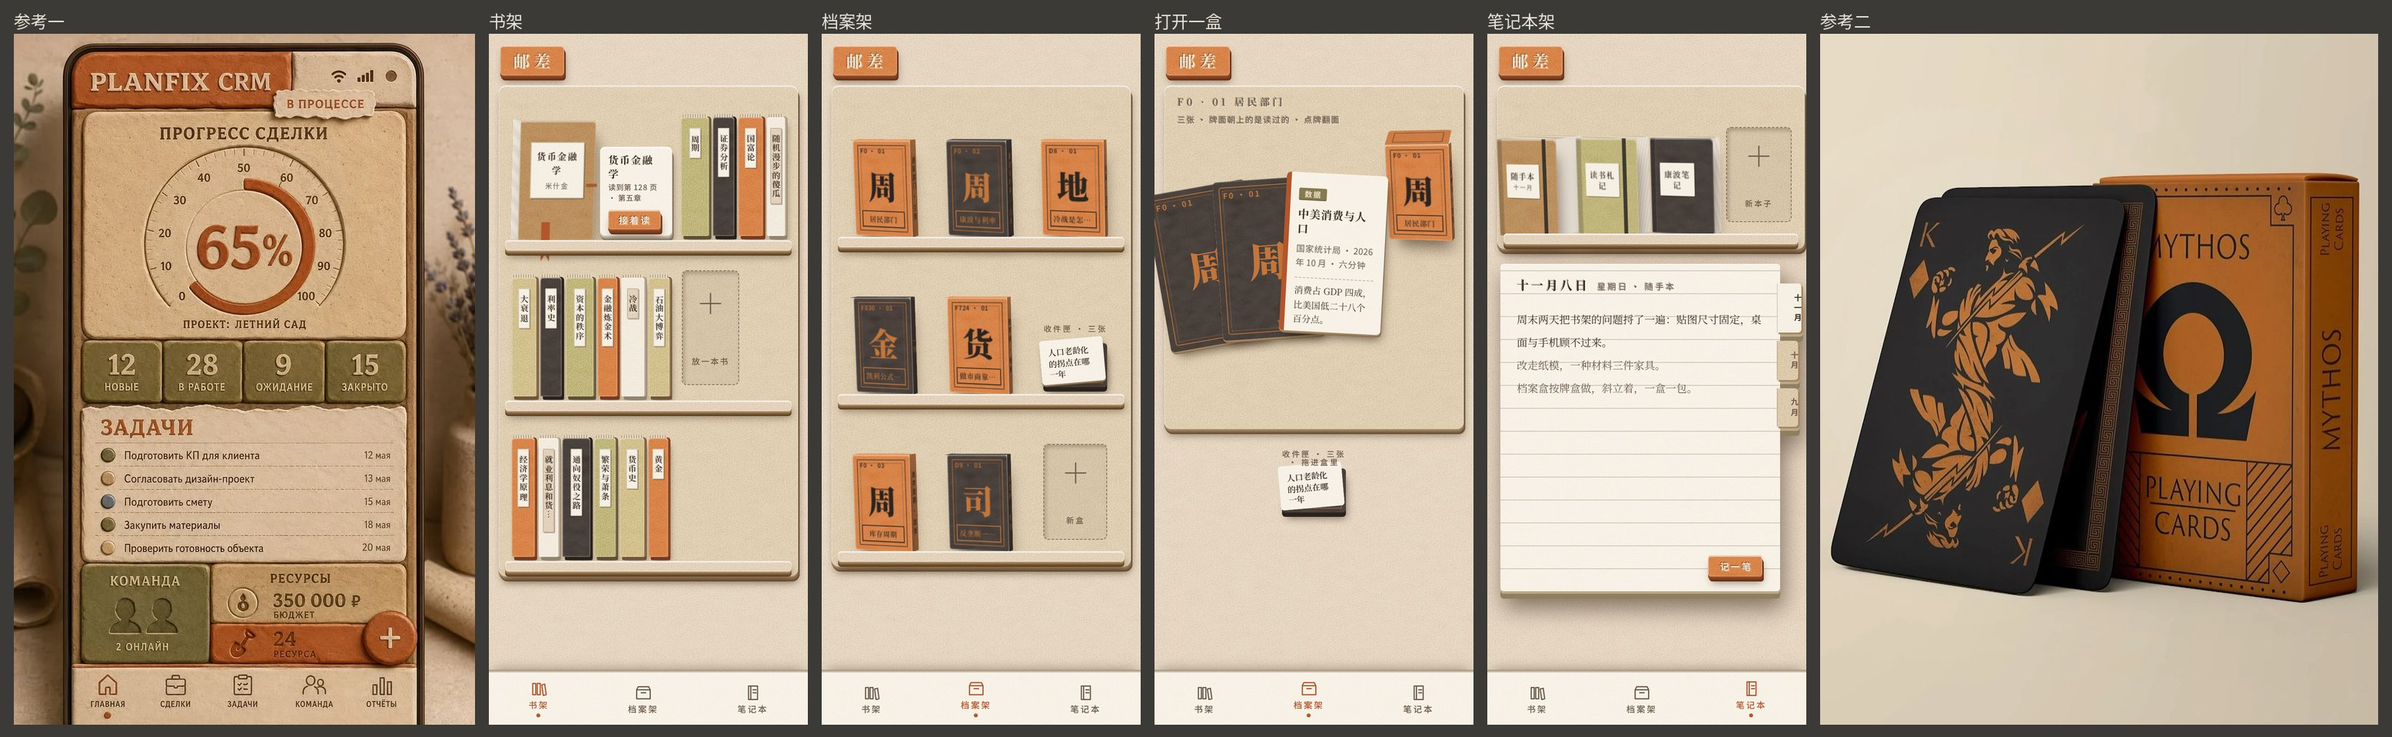
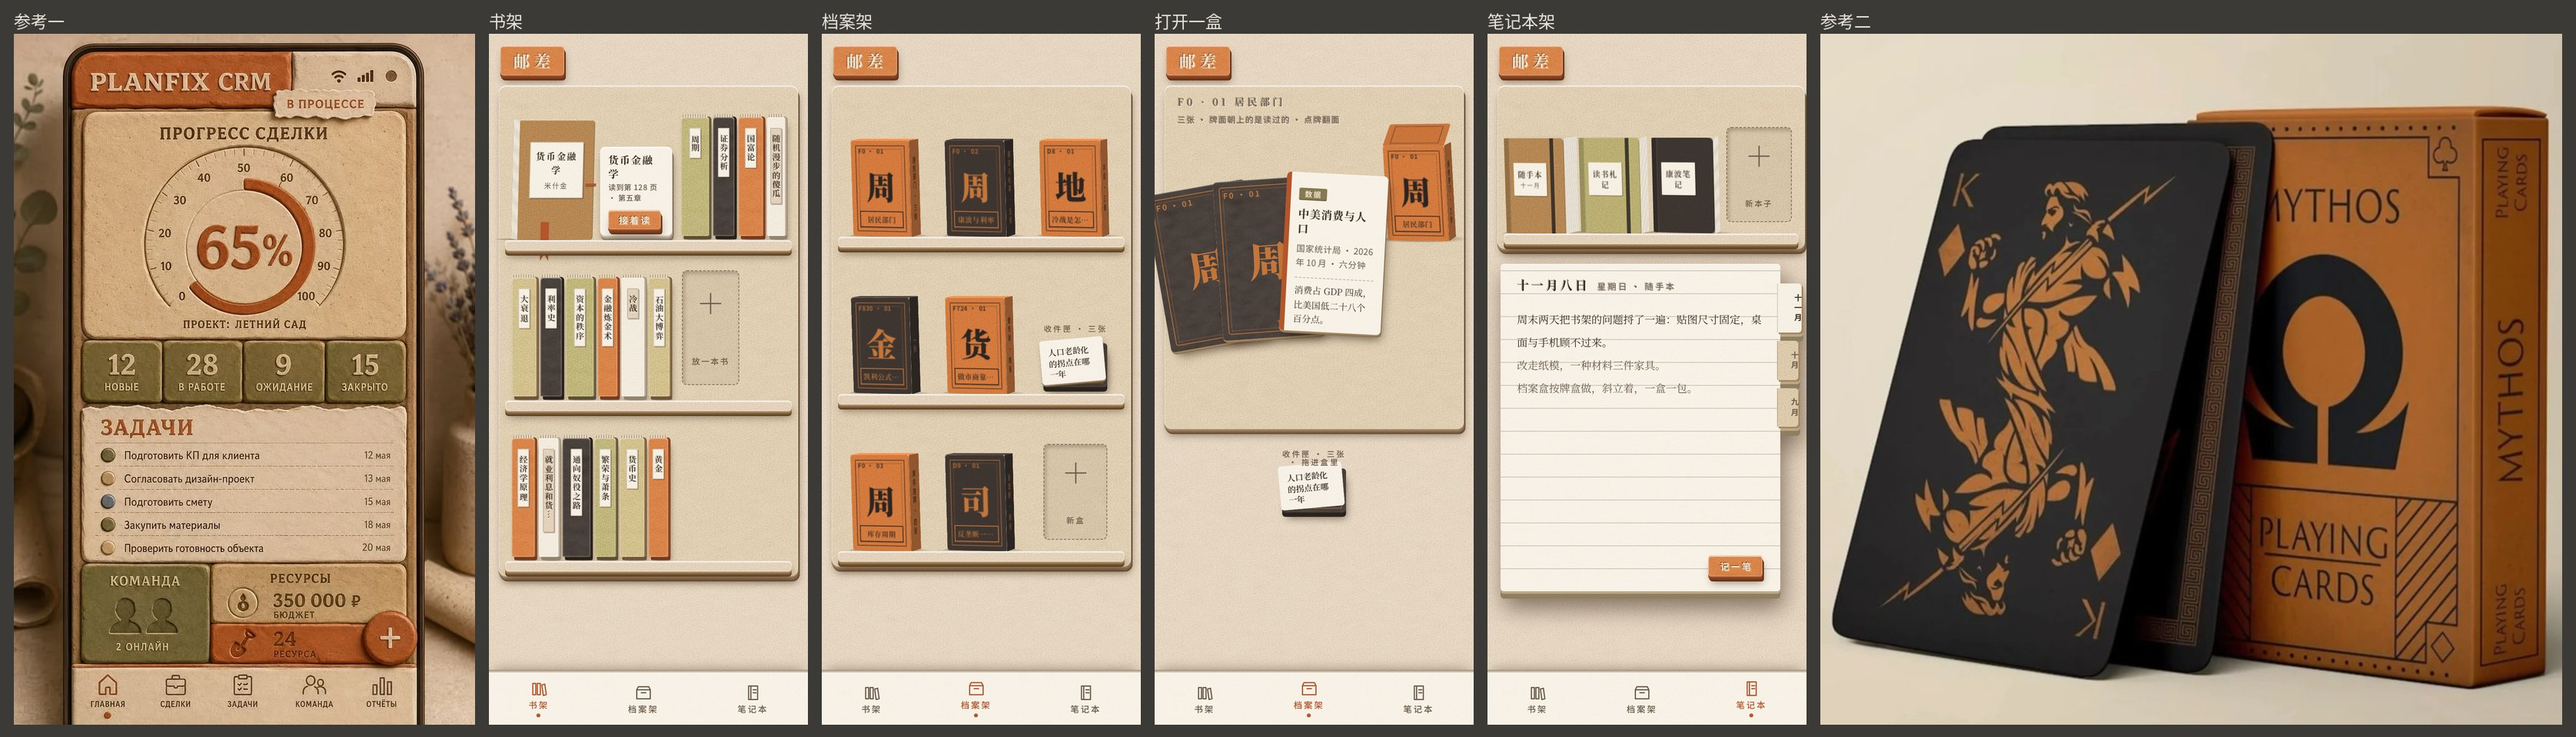
牌盒对照 MYTHOS 量一遍（厚度比、转角、透视、三面明暗、折痕、影子、牌）写进审视稿六之五；盒子参数试改：厚盒、近正交、哑光盒面、地面接触影
- 改前侧/正 0.08、无接触影、盒面用了纸片亮线；改后盒厚 = 正面宽 × .32 + 每张牌 1px（约 0.30）、perspective 2200、去亮线、盒底平躺暗椭圆、侧 .70 顶 1.18、盒面颗粒减半
- 本子与在读的书厚度另算并加接触影；两张拼图更新；STATUS 更新

diff --git a/docs/paper-trial.html b/docs/paper-trial.html
@@ -42,15 +42,16 @@ body{margin:0;background:#86827a;font-family:var(--f-sans);color:var(--ink);font
 .cut b{font:300 34px/1 var(--f-serif)}
 
 /* ---------- 三维盒：牌盒与本子 ---------- */
-.stage{perspective:1000px;perspective-origin:50% 25%}
-.pack{--w:84px;--h:126px;--n:3;--d:calc(9px + var(--n) * 2px);--ry:-22deg;--rz:0deg;--rx:-4deg;--face:var(--terra);--inkc:var(--black);
+.stage{perspective:2200px;perspective-origin:50% 25%}
+.pack{--w:84px;--h:126px;--n:3;--d:calc(var(--w) * .32 + var(--n) * 1px);--ry:-22deg;--rz:0deg;--rx:-4deg;--face:var(--terra);--inkc:var(--black);
   position:relative;width:var(--w);height:var(--h);transform-style:preserve-3d;transform-origin:50% 100%;transform:rotateY(var(--ry)) rotateX(var(--rx)) rotateZ(var(--rz));flex:none}
-.pack .f{position:absolute;left:0;top:0;background-color:var(--face);background-image:var(--fibre),var(--tooth);background-blend-mode:soft-light,overlay;color:var(--inkc);backface-visibility:hidden}
-.pack .front{width:var(--w);height:var(--h);transform:translateZ(calc(var(--d) / 2));border-radius:3px;
-  box-shadow:inset 0 2px 0 rgba(255,255,255,.3),inset 0 0 0 1px rgba(255,255,255,.2),6px 14px 18px -6px rgba(50,30,15,.6)}
-.pack .side{width:var(--d);height:var(--h);left:100%;transform-origin:left center;transform:translateZ(calc(var(--d) / 2)) rotateY(90deg);filter:brightness(.72) saturate(.9);display:flex;align-items:center;justify-content:center;overflow:hidden}
-.pack .side span{writing-mode:vertical-rl;font:500 8.5px/1 var(--f-sans);letter-spacing:.14em;opacity:.9;white-space:nowrap}
-.pack .top{width:var(--w);height:var(--d);transform-origin:center top;transform:translateZ(calc(-1 * var(--d) / 2)) rotateX(90deg);filter:brightness(1.1)}
+.pack .f{position:absolute;left:0;top:0;background-color:var(--face);background-image:var(--tooth);background-blend-mode:overlay;color:var(--inkc);backface-visibility:hidden}
+.pack .front{width:var(--w);height:var(--h);transform:translateZ(calc(var(--d) / 2));border-radius:3px;box-shadow:inset -1px 0 0 rgba(0,0,0,.16)}
+.pack .side{width:var(--d);height:var(--h);left:100%;transform-origin:left center;transform:translateZ(calc(var(--d) / 2)) rotateY(90deg);filter:brightness(.70) saturate(.95);display:flex;align-items:center;justify-content:center;overflow:hidden}
+.pack .side span{writing-mode:vertical-rl;font:500 9px/1 var(--f-sans);letter-spacing:.16em;opacity:.9;white-space:nowrap}
+.pack .top{width:var(--w);height:var(--d);transform-origin:center top;transform:translateZ(calc(-1 * var(--d) / 2)) rotateX(90deg);filter:brightness(1.18)}
+/* 地面接触影：一片平躺在盒底的暗椭圆，偏右下（MYTHOS 盒底 -30 级、半影大于 60 像素） */
+.pack::before{content:"";position:absolute;left:-8%;right:-22%;bottom:0;height:calc(var(--d) + 16px);transform-origin:center bottom;transform:translateZ(calc(var(--d) / 2 + 8px)) rotateX(90deg);background:radial-gradient(ellipse at 42% 55%,rgba(50,30,15,.62),rgba(50,30,15,.28) 45%,rgba(50,30,15,0) 74%)}
 .pack.k{--face:var(--black);--inkc:var(--copper)}.pack.o{--face:var(--olive);--inkc:var(--cream)}.pack.c{--face:var(--cream);--inkc:var(--ink)}.pack.b{--face:var(--kraft-dk);--inkc:var(--cream)}
 /* 牌盒印刷：双线框、角标、大字、小名 */
 .pack .front .frame{position:absolute;inset:6px;border:1px solid currentColor;opacity:.7;border-radius:1px}
@@ -101,10 +102,11 @@ body{margin:0;background:#86827a;font-family:var(--f-sans);color:var(--ink);font
 .spine.c span{background-color:var(--kraft);}
 .lean{margin-left:10px}
 .reading{display:flex;align-items:flex-end;gap:16px;margin-right:14px}
-.pack.book{--w:118px;--h:176px;--n:9;--face:var(--kraft-dk);--inkc:var(--cream);--ry:22deg;--rz:0deg;--rx:-4deg}
+.pack.book{--w:118px;--h:176px;--n:9;--d:calc(12px + var(--n) * 1px);--face:var(--kraft-dk);--inkc:var(--cream);--ry:22deg;--rz:0deg;--rx:-4deg}
 .pack.book .side{left:auto;right:100%;transform-origin:right center;transform:translateZ(calc(var(--d) / 2)) rotateY(-90deg);--face:var(--cream);filter:none;background-image:repeating-linear-gradient(90deg,rgba(60,40,20,.3) 0 1px,transparent 1px 3px),var(--tooth);background-blend-mode:normal,overlay}
 .pack.book .top{--face:var(--cream-2);filter:none;background-image:repeating-linear-gradient(0deg,rgba(60,40,20,.25) 0 1px,transparent 1px 3px);background-blend-mode:normal}
 .pack.book .front{border-radius:2px 4px 4px 2px}
+.pack.book::before{left:-22%;right:-8%}
 .pack.book .plate{position:absolute;left:14px;right:14px;top:34px;padding:12px 6px;background-color:var(--cream);background-image:var(--tooth);background-blend-mode:overlay;color:var(--ink);text-align:center;font:700 13px/1.5 var(--f-serif);letter-spacing:.12em;box-shadow:1px 1px 0 rgba(0,0,0,.3),inset 0 0 0 1px rgba(60,40,20,.25);border-radius:1px}
 .pack.book .plate small{display:block;font:400 9px/1.4 var(--f-sans);letter-spacing:.14em;color:var(--ink-2);margin-top:4px}
 .pack.book .rib{position:absolute;left:30px;bottom:-26px;width:11px;height:48px;background:var(--terra);clip-path:polygon(0 0,100% 0,100% 100%,50% 82%,0 100%);box-shadow:1px 1px 0 rgba(0,0,0,.3)}
@@ -165,7 +167,7 @@ body{margin:0;background:#86827a;font-family:var(--f-sans);color:var(--ink);font
 /* ---------- 笔记本架 ---------- */
 .ledge{--face:var(--kraft-2);padding:14px 12px 0;border-radius:9px}
 .ledge .row{--rh:250px;gap:22px;padding:0 20px 18px}
-.pack.nb{--w:118px;--h:172px;--n:22}
+.pack.nb{--w:118px;--h:172px;--n:22;--d:calc(10px + var(--n) * 1px)}
 .pack.nb .label{font-size:12px;top:40px;padding:9px 4px}
 .ledge .cut{width:118px;height:172px;align-self:flex-end;margin-bottom:12px}
 .ledge .cut small{font:500 9.5px/1.3 var(--f-sans);letter-spacing:.14em;margin-top:4px}

diff --git a/STATUS.md b/STATUS.md
@@ -3,7 +3,7 @@ type: status
 status: active
 cluster: product
 stage: 产品 2026-11-08 改名「邮差」（代号 yanxilu 不变）；只做三件家具（书架、档案架、笔记本），书架收成「上传与接着读」、档案架优先重做、笔记本加新本子，阶段表 docs/shelf-design-review.md 六之二；线网图等页面保留不动；墓园系列（墓园宽柜、/youchai/、奇幻蓝图）冻结保留；三维小世界在 yanxilu-world 仓库
-next: 等用户过门纸模第三稿的书架与书脊（docs/ui-paper-trial.jpg、ui-paper-trial-desktop.jpg），并定收件匣位置与盒面只留大字卷号；过了就把六之四的材质规则（五种纸、切边亮一圈、顶边亮、六像素暗带、压印字、细牙口颗粒、同向三维盒）写进 src/page.html 变量与公用类，开阶段 1 档案架（真数据、桌面与手机并排过门），之后 2 开盒抽牌、3 书架上传与接着读、4 新本子、5 一个房间、6 验收。
+next: 等用户过门纸模第三稿的书架与书脊与试改后的牌盒（厚盒、接触影）（docs/ui-paper-trial.jpg、ui-paper-trial-desktop.jpg），并定收件匣位置与盒面只留大字卷号；过了就把六之四的材质规则（五种纸、切边亮一圈、顶边亮、六像素暗带、压印字、细牙口颗粒、同向三维盒）写进 src/page.html 变量与公用类，开阶段 1 档案架（真数据、桌面与手机并排过门），之后 2 开盒抽牌、3 书架上传与接着读、4 新本子、5 一个房间、6 验收。
 blocked_by: 无
 updated: 2026-11-08
 ---
@@ -11,6 +11,7 @@ updated: 2026-11-08
 # 状态
 
 ## 现在停在哪
+- 2026-11-08 夜（三） 用户让对照 MYTHOS 牌盒看摆放与立体感 → 量了盒的厚度比（侧/正 0.29）、转角（约 20°）、透视（竖边平行）、三面明暗（侧/正 .69、顶/正 1.18）、折痕（无高光）、影子（盒底接触影 -30 级、半影 > 60 像素）、牌的斜度与厚度；我们改前侧/正只有 0.08、没有接触影、盒面用了纸片的亮线。试改进 paper-trial.html：盒厚 = 正面宽 × .32 + 每张牌 1px、perspective 2200、盒面去亮线、盒底平躺暗椭圆接触影、侧 .70 顶 1.18、盒面颗粒减半；本子与书同样加接触影。写进审视稿六之五，三栏对照图在本机 tools/out/paper/box-compare.jpg。代码未动。
 - 2026-11-08 夜（二） 用户定：按第二稿形式做，但要全面拆解样张、盒与本子方向一致、书架与书脊按样张重设计 → 量样张：八色聚类（一个色相 22 到 39 度、八层明度，六成面积是亮纸）、纹理高通 σ（能量全在 1 到 3 像素，是牙口不是斑驳）、边缘剖面（顶边亮线 2 像素、切边一圈亮、底下 6 像素暗带、字是左上暗右下亮的压印、全部是叠纸没有凹槽）；写进审视稿六之四。第三稿 docs/paper-trial.html：材质规则重写、去掉所有凹槽、层板是亮纸片、牌盒与本子同向 rotateY(-22°)、书脊重设计（五色纸片 + 竖的米白签压字 + 书口）、橄榄改 #857A4F；量回来的颗粒 σ 与样张同区间。两张拼图更新。代码未动。
 - 2026-11-08 夜 用户看第一稿后纠正五条（样张有厚度是仿立体；有纹理；三页都要设计；牌盒图看的是造型——一盒斜立算一包牌、再一盒斜立是另一包；不要仪表盘与「在做」等状态签）→ 第二稿 docs/paper-trial.html 原地重写：每片纸四层硬边加软影，牌盒 / 本子 / 在读的书用 CSS 3D 三个面斜立，盒厚 = 牌数；两层颗粒混进底色；书架、档案架（架 + 开盒）、笔记本架三页，桌面与手机各一版；表盘、统计牌、丝带、圆签全去掉。渲成 docs/ui-paper-trial.jpg（手机四屏夹在两张参考之间）与 docs/ui-paper-trial-desktop.jpg（桌面三屏）。审视稿六之三改口径（五条纠正、第二稿做法、自评与还差的、请用户定的三件），REFERENCES 两条结论改口径。代码未动。
 - 2026-11-08 晚 用户给两张图（Planfix 纸艺界面、MYTHOS 牌盒）：App 质感要统一成这样，档案盒可做成牌盒 → 量了色相与明度（都在暖棕一族、靠明度不靠色相），写审视稿六之三（对三件家具的含义、档案盒即牌盒、风险三条），CSS 试一笔 docs/paper-trial.html → docs/ui-paper-trial.jpg（手机一屏档案架：表盘、统计牌、分信架牌盒、收件匣撕边纸、开盒扇，左参考右试笔）。参考落位 REFERENCES 两条。等用户定：纸模是否全站质感、档案盒是否牌盒、领域彩色是否收掉换单字。
@@ -148,6 +149,7 @@ updated: 2026-11-08
 - 宝石规则是否改成按"能不能回忆"定（沿自 BRIEF）。
 
 ## 日志
+- 2026-11-08 夜（三） 量 MYTHOS 牌盒与我们的盒子（会话草稿区脚本），审视稿六之五，盒子参数试改，拼图更新。
 - 2026-11-08 夜（二） 量样张（measure_ref.py 在会话草稿区）：色板聚类、纹理 σ、边缘剖面；审视稿六之四；第三稿 paper-trial.html（去凹槽、同向、书脊重设计），两张拼图更新。
 - 2026-11-08 夜 纸模第二稿：用户五条纠正后 paper-trial.html 原地重写成三页七屏（render_paper2.py 在会话草稿区），两张拼图进 docs，审视稿六之三与 REFERENCES 改口径。
 - 2026-11-08 晚 纸模试笔：量两张参考图色板，paper-trial.html 加 render_paper.py（会话草稿区），审视稿六之三，REFERENCES 两条。
